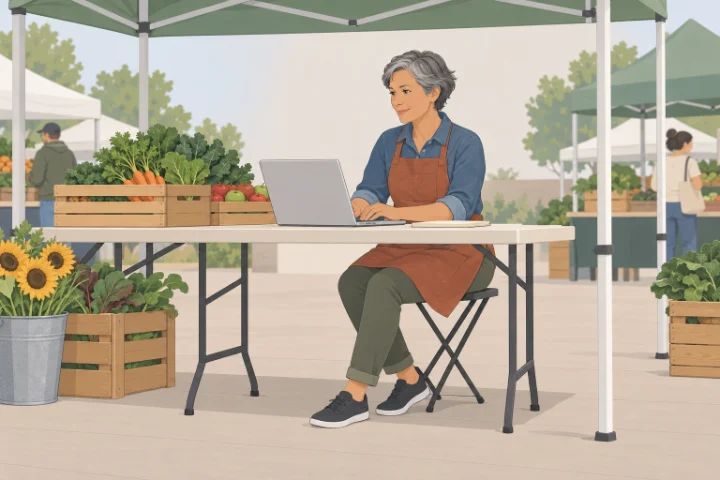
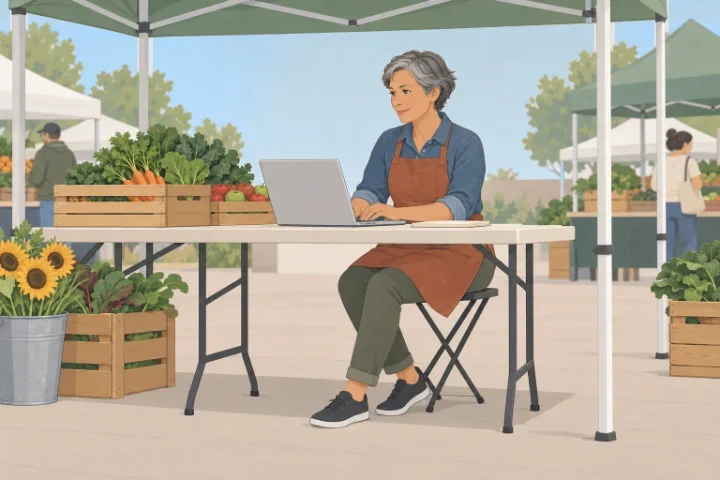
USDA service map: the market scenes get a blue sky
The two farmers' market drawings, usda-stage-1 and usda-stage-3, came
back from ChatGPT with a warm grey sky that read as brown. The sky is
recolored to a blue that deepens toward the top, flooded from the top
edge so the tents, poles, trees and wall keep their own color. Same
720x480 size, so width and height do not move; both busters go to v=3.
resting.mjs and states.mjs pass on the case study at the same counts as
before, and the fast six pass.

Changed region(s): [[0.0, 0.0, 0.825, 0.4062], [0.8556, 0.0, 1.0, 0.125]]

diff --git a/case-study/usda-operational-overhead.html b/case-study/usda-operational-overhead.html
@@ -277,9 +277,9 @@
         <!-- THE SERVICE MAP, since 2026-10-28: who touches a grant at each stage, before and after, in HTML so the checks can read it (case-study-base.css, "The service map"), in the Aisle journey's style: phase bands, a storyboard drawing per stage, the stage rail, and lane icons. Since 2026-10-29 its lanes are Who, Before, and After; the record each stage carries and the tools behind it were cut for length. Since 2026-10-29 it ends on what it shows, three claims for a reader who will not read twenty cells, each naming the stages that prove it; they replaced the closing line under the grid, which said the first of them in one sentence. For a day they opened the figure, above the grid, and cited stages a reader had not yet seen. Every cell restates something this page documents; the one that does not, stage 02's Before, is marked Illustrative in its own text; cut on 2026-10-29, it came back the same day, because an empty Before cell read as a broken map. -->
         <figure class="svc-map" style="--svc-stages: 4"><figcaption><p class="svc-title">Who touches a grant, and what changed for each</p>
         </figcaption><p class="svc-phases"><span class="svc-phase" style="--svc-from: 1; --svc-to: 3">Getting funded</span><span class="svc-phase" style="--svc-from: 3; --svc-to: 5">Reporting back</span></p>
-        <ol class="svc-stages"><li class="svc-stage" style="--svc-i: 0"><img class="svc-scene" src="../img/site/usda-stage-1.webp?v=2" alt="" width="720" height="480" loading="lazy" decoding="async"><p class="svc-stage-name"><span class="svc-n" aria-hidden="true">01</span>Apply</p>
+        <ol class="svc-stages"><li class="svc-stage" style="--svc-i: 0"><img class="svc-scene" src="../img/site/usda-stage-1.webp?v=3" alt="" width="720" height="480" loading="lazy" decoding="async"><p class="svc-stage-name"><span class="svc-n" aria-hidden="true">01</span>Apply</p>
         <dl class="svc-lanes"><div class="svc-lane svc-lane--who" style="--svc-lane: 1"><dt>Who is in it</dt><dd>Grantees, applying to run nutrition incentive and produce prescription projects.</dd></div><div class="svc-lane svc-lane--before" style="--svc-lane: 2"><dt>Before</dt><dd>Old software, spreadsheets, and workarounds. <strong>People got lost partway through applying.</strong></dd></div><div class="svc-lane svc-lane--after" style="--svc-lane: 3"><dt>After</dt><dd><strong>One portal.</strong> Resources named the way people say them, each within two clicks, and help where people got confused.</dd></div></dl></li><li class="svc-stage" style="--svc-i: 1"><img class="svc-scene" src="../img/site/usda-stage-2.webp?v=2" alt="" width="720" height="480" loading="lazy" decoding="async"><p class="svc-stage-name"><span class="svc-n" aria-hidden="true">02</span>Review and fund</p>
-        <dl class="svc-lanes"><div class="svc-lane svc-lane--who" style="--svc-lane: 1"><dt>Who is in it</dt><dd>Reviewers at the center, deciding which applications go forward.</dd></div><div class="svc-lane svc-lane--before" style="--svc-lane: 2"><dt>Before</dt><dd><span class="svc-ill">Illustrative:</span> What a grantee sent and what a reviewer saw lived in <strong>tools that did not agree.</strong></dd></div><div class="svc-lane svc-lane--after" style="--svc-lane: 3"><dt>After</dt><dd><strong>What grantees submit connected to what reviewers see</strong>, with the decision paths mapped so no one hits a dead end.</dd></div></dl></li><li class="svc-stage" style="--svc-i: 2"><img class="svc-scene" src="../img/site/usda-stage-3.webp?v=2" alt="" width="720" height="480" loading="lazy" decoding="async"><p class="svc-stage-name"><span class="svc-n" aria-hidden="true">03</span>Report</p>
+        <dl class="svc-lanes"><div class="svc-lane svc-lane--who" style="--svc-lane: 1"><dt>Who is in it</dt><dd>Reviewers at the center, deciding which applications go forward.</dd></div><div class="svc-lane svc-lane--before" style="--svc-lane: 2"><dt>Before</dt><dd><span class="svc-ill">Illustrative:</span> What a grantee sent and what a reviewer saw lived in <strong>tools that did not agree.</strong></dd></div><div class="svc-lane svc-lane--after" style="--svc-lane: 3"><dt>After</dt><dd><strong>What grantees submit connected to what reviewers see</strong>, with the decision paths mapped so no one hits a dead end.</dd></div></dl></li><li class="svc-stage" style="--svc-i: 2"><img class="svc-scene" src="../img/site/usda-stage-3.webp?v=3" alt="" width="720" height="480" loading="lazy" decoding="async"><p class="svc-stage-name"><span class="svc-n" aria-hidden="true">03</span>Report</p>
         <dl class="svc-lanes"><div class="svc-lane svc-lane--who" style="--svc-lane: 1"><dt>Who is in it</dt><dd>Grantees, every reporting period, and the analysts who check what they send.</dd></div><div class="svc-lane svc-lane--before" style="--svc-lane: 2"><dt>Before</dt><dd>Submissions <strong>checked and validated by hand</strong>, after they arrived.</dd></div><div class="svc-lane svc-lane--after" style="--svc-lane: 3"><dt>After</dt><dd>Validation moved into the forms. <strong>Checking time roughly halved</strong>, and the analysts saw fewer submission errors.</dd></div></dl></li><li class="svc-stage" style="--svc-i: 3"><img class="svc-scene" src="../img/site/usda-stage-4.webp?v=2" alt="" width="720" height="480" loading="lazy" decoding="async"><p class="svc-stage-name"><span class="svc-n" aria-hidden="true">04</span>Analyze and decide</p>
         <dl class="svc-lanes"><div class="svc-lane svc-lane--who" style="--svc-lane: 1"><dt>Who is in it</dt><dd>Analysts answering data requests, and administrators deciding which programs are working.</dd></div><div class="svc-lane svc-lane--before" style="--svc-lane: 2"><dt>Before</dt><dd><strong>45 to 55 hours per data-analysis request.</strong> Administrators could not tell which programs were working.</dd></div><div class="svc-lane svc-lane--after" style="--svc-lane: 3"><dt>After</dt><dd><strong>Just over 10 hours per request</strong>, and nearly twice the grantees with no new analysts.</dd></div></dl></li></ol><div class="svc-short"><p class="case-field-label text-xs">What the map shows</p>
         <ul class="svc-short-list"><li><span class="map-mark" style="--i: 0" aria-hidden="true"><svg class="map-mark-icon" viewBox="0 0 24 24" focusable="false"><circle cx="6" cy="19" r="3" pathLength="1"/><path d="M9 19h8.5a3.5 3.5 0 0 0 0-7h-11a3.5 3.5 0 0 1 0-7H15" pathLength="1"/><circle cx="18" cy="5" r="3" pathLength="1"/></svg></span><p class="svc-short-claim">The work was connecting the stages</p>
